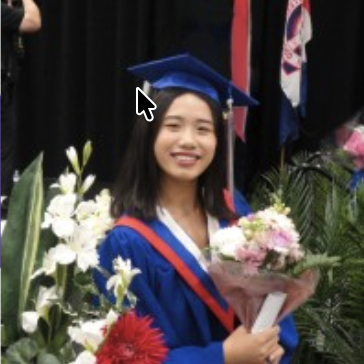
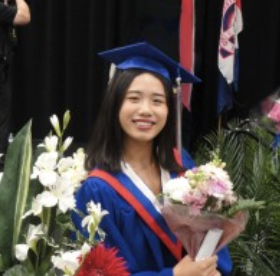
Update profile pictures for Jerry, Adelina, Caleb, Ziren, and Shamanthi

diff --git a/src/team.tsx b/src/team.tsx
@@ -17,7 +17,7 @@ import avatarKatherine from "./assets/avatars/Katherine.png";
 import avatarAsmi from "./assets/avatars/Asmi.jpg";
 import avatarCatherine from "./assets/avatars/Catherine.png";
 import avatarKrish from "./assets/avatars/Krish.png";
-import avatarShamanthi from "./assets/avatars/Shamanthi.png";
+import avatarShamanthi from "./assets/avatars/shamanthi.jpg";
 import avatarZiren from "./assets/avatars/Ziren.png";
 import avatarFaraaz from "./assets/avatars/Faraaz.png";
 import avatarRachel from "./assets/avatars/Rachel.png";
